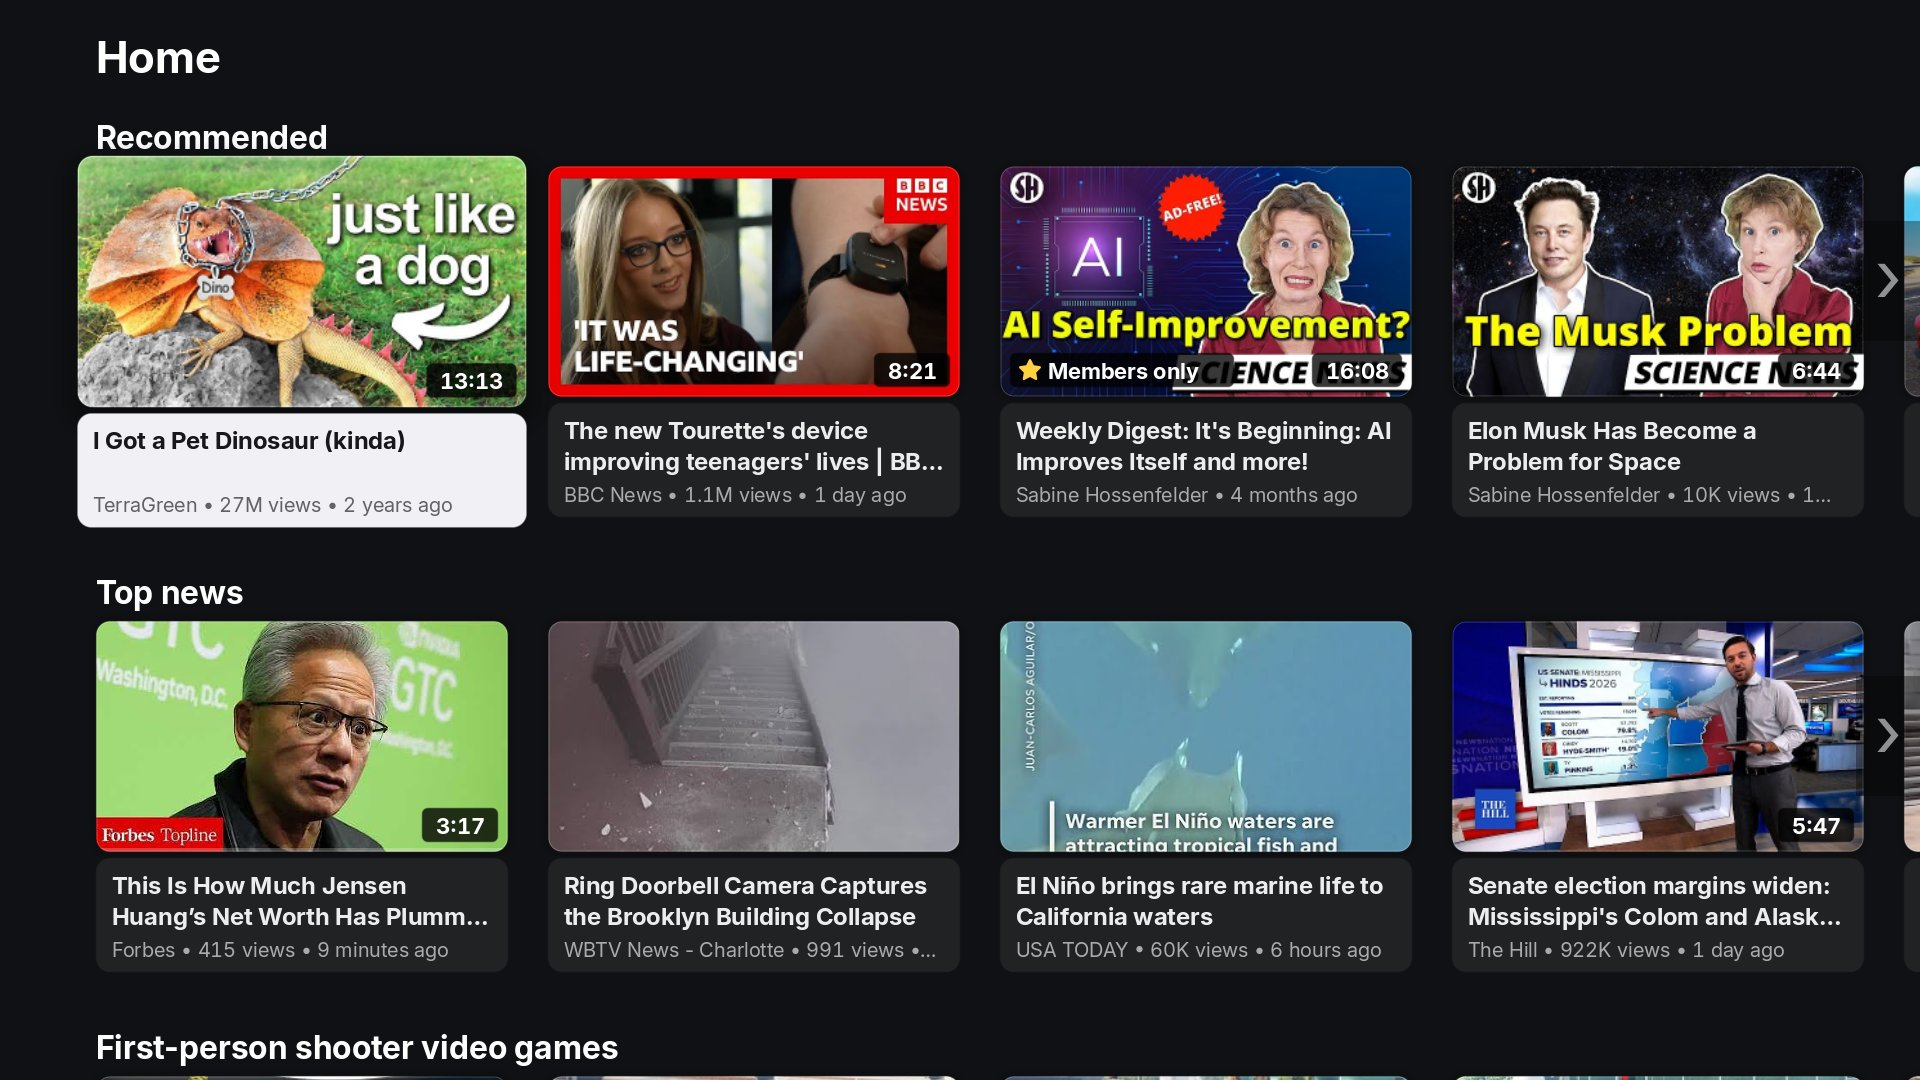
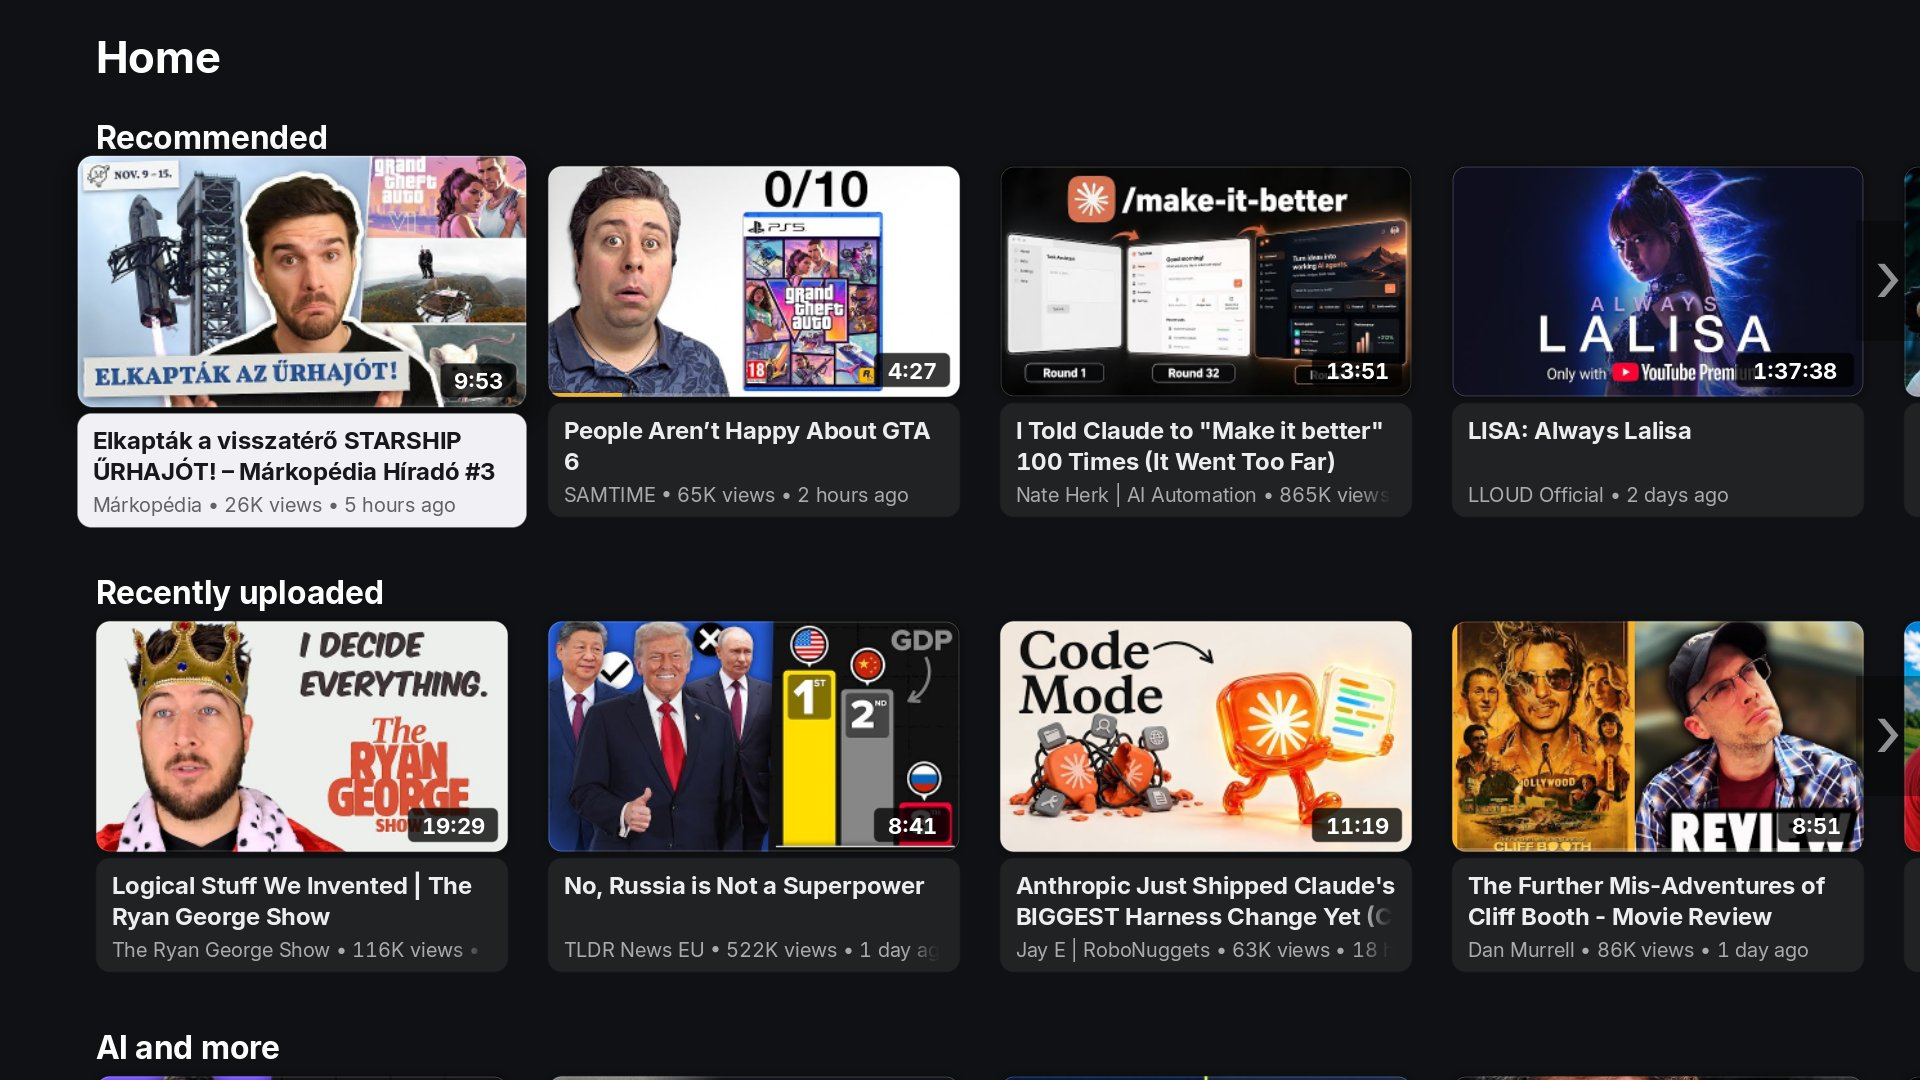
README: new screenshots and the features up to 0.2.67
New simulator screenshots of Home, the sidebar, search, the keyboard, the two-pane Settings
(Playback, SponsorBlock & DeArrow) and sign-in, taken signed out of any personal name; the
player screenshots from the C3 stay. The feature list adds audio only, same volume, ambient
mode, video details, live chat, notifications and the bell, video previews, the sleep timer,
settings search and the problem report, and the install section the app's own updates.

diff --git a/README.md b/README.md
@@ -15,12 +15,13 @@ webOS app framework); SmartTube is the feature reference throughout.
 
 ![The player in 4K with the SmartTube-style controls](docs/screenshots/player-smarttube.jpg)
 
-![Home: shelves of videos, the focused one raised, a members-only badge](docs/screenshots/home.jpg)
+![Home: shelves of videos, the focused one raised](docs/screenshots/home.jpg)
 
 | | |
 |---|---|
+| ![Settings in two panes: the categories on the left, Playback's options on the right (2160p, AV1, HDR)](docs/screenshots/settings.jpg) | ![SponsorBlock & DeArrow settings: a choice per segment category, on / off switches](docs/screenshots/settings-sponsorblock.jpg) |
 | ![The sidebar slid in over Home](docs/screenshots/sidebar.jpg) | ![Search results for "nasa"](docs/screenshots/search.jpg) |
-| ![The player with the YouTube-style controls (Settings > Player style)](docs/screenshots/player-youtube.jpg) | ![Playback settings: 2160p, AV1, HDR](docs/screenshots/settings.jpg) |
+| ![The on-screen keyboard with search suggestions](docs/screenshots/keyboard.jpg) | ![The player with the YouTube-style controls (Settings > Playback > Player style)](docs/screenshots/player-youtube.jpg) |
 | ![The sign-in screen: a code or a QR code](docs/screenshots/signin.jpg) | |
 
 The player screenshots are from an LG C3; the others are from the app's Windows simulator, which
@@ -39,6 +40,9 @@ runs the same UI code as the TV build.
    ```
 
 3. **ytnative** shows up in the list. Install it; new releases show up as updates.
+
+ytnative also looks for new releases itself and offers to install them (**Settings > Account &
+about > Check for updates**).
 
 ### Developer Mode / manual
 
@@ -60,20 +64,24 @@ Root is not required.
   webOS 3 is not supported.
 - Any GPU: the app links only the generic `libGLESv2`, loads EGL at runtime and falls back where
   an extension or shader precision is missing (developed on Mali; other GPUs are untested).
-- A Google account is optional: sign in with a code from **Settings > Account** to get your Home,
-  Subscriptions, History and playlists.
+- A Google account is optional: sign in with a code from **Settings > Account & about** to get
+  your Home, Subscriptions, History, playlists and notifications.
 
 ## Features
 
 Everything SmartTube users expect, rebuilt for webOS:
 
 **Browsing**
-- Home, Subscriptions, Channels, History, Library/playlists, Music, Gaming, News, Podcasts, Live,
-  Movies, Sports, Trending, pinned playlists/channels, channel groups and search (on-screen
-  keyboard, suggestions, filters, search history).
-- Hidden sidebar that slides in from the leftmost tile or with BACK; double BACK exits.
+- Home, Subscriptions, Channels, History, Library/playlists, Notifications, Music, Gaming, News,
+  Podcasts, Live, Movies, Sports, pinned playlists/channels, channel groups and search (on-screen
+  keyboard, suggestions, filters, search history). Each sidebar section can be shown or hidden.
+- Hidden sidebar that slides in from the leftmost tile or with BACK; a section opens with OK or a
+  click, double BACK exits.
+- Notifications: the newest videos of the channels whose bell is set to All videos.
 - Titles under thumbnails, configurable card size, OLED black background, accent colours,
   optional clock on the video lists.
+- Optional video previews: a muted preview plays in the card the focus rests on (Settings >
+  Interface, off by default).
 - Content filters: hide Shorts, watched videos, upcoming streams, mixes; block channels.
 - Multiple accounts and brand accounts, settings PIN, child mode.
 
@@ -83,18 +91,33 @@ Everything SmartTube users expect, rebuilt for webOS:
   used for 4K/VP9/AV1/HDR and live).
 - SmartTube's two rows of on-screen controls (playback mode, speed, chapters, comments, search,
   channel, like / dislike, subtitles, save to playlist, subscribe, video info, SponsorBlock) and a
-  suggestions row, all reachable with the arrow keys or the Magic Remote pointer.
+  suggestions row, all reachable with the arrow keys or the Magic Remote pointer. A YouTube-style
+  control layout is the alternative.
+- The subscribe button of a subscribed channel sets its notification bell (All videos,
+  Personalized, None) or unsubscribes, as on YouTube.
 - Chapter selector (a list of the video's chapters, OK jumps there), chapters on the seek bar,
-  storyboard previews while seeking, resume where you left off,
+  storyboard previews while seeking, resume where you left off, keep up with live streams,
   autoplay / repeat, playback speed (per channel if you like).
+- **Audio only**: sound alone over a black screen, no video downloaded.
+- **Same volume for every video**: loud videos are turned down, as YouTube's own players do.
+- **Ambient mode**: a soft glow in the video's colours in the black bars of 4:3 videos, Shorts
+  and films.
+- **Video details**: engine, codecs, resolution, bitrates, buffer and connection speed over the
+  video.
 - Subtitles with size, colour, font, bold, outline / shadow / box styles and auto-translate.
-- Comments in a side panel (the video shrinks beside it) with replies.
+- Comments in a side panel (the video shrinks beside it) with replies, and **live chat** beside
+  live streams, each message with the time it was sent.
+- Sleep timer: a countdown set in the player's options that runs across the next videos, warns a
+  minute before and pauses playback.
 - OSD, comments and subtitles are dimmed automatically over HDR video.
 
-**Options (SmartTube's, adapted to webOS)**
+**Settings**
+- Two panes: the categories (Playback, Subtitles, SponsorBlock & DeArrow, Content filters,
+  Interface, Remote control, Account & about) on the left, their options on the right, on / off
+  options as switches. **Search settings** finds any option by name.
 - Playback modes (play next, repeat, list once / repeat / shuffle / reverse, pause or close after
   each video), remembered speed (per video, per channel, for all), OK button behaviour, auto-hide,
-  seek step, number-key seeking, ending time, sleep timer, resume rules, preferred audio language.
+  seek step, number-key seeking, ending time, resume rules, preferred audio language.
 - Subtitles per channel, thumbnail picture, content country, channels sorting.
 - Content filters per section (Shorts, watched, upcoming, streams), blocked channels, watch and
   search history switches.
@@ -102,11 +125,15 @@ Everything SmartTube users expect, rebuilt for webOS:
 **Extras**
 - **SponsorBlock** (per-category skip / ask / off, segment markers on the seek bar),
   **DeArrow** titles and thumbnails, **Return YouTube Dislike**.
-- Cast from your phone: link with a TV code, or pick the TV from the YouTube app's cast menu (DIAL).
+- Cast from your phone: link with a TV code (Settings > Remote control), or, while the app is
+  open, pick the TV from the YouTube app's cast menu (DIAL).
 - Remote colour buttons can be mapped to actions; Magic Remote pointer, wheel and edge scrolling
   everywhere.
 - Interface in English, Hungarian, German, Spanish, French and Russian.
 - Settings backup and restore (USB or app storage).
+- **Problem report** (Settings > Account & about): the app's logs on screen, and a QR code to
+  download them on a phone on the same Wi-Fi, with sign-in tokens and stream addresses removed.
+  Attach the report when you open an issue.
 
 ## How it works
 
